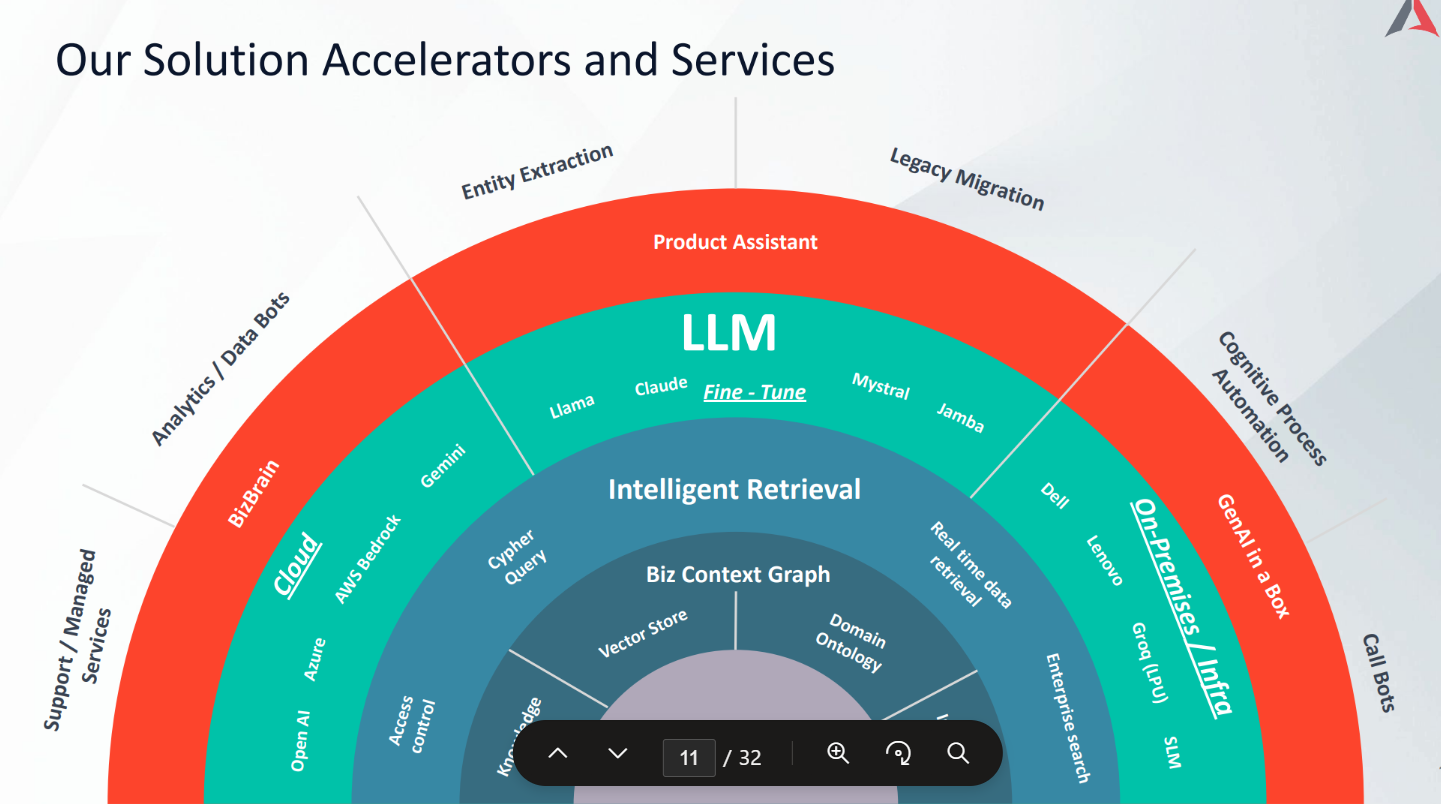
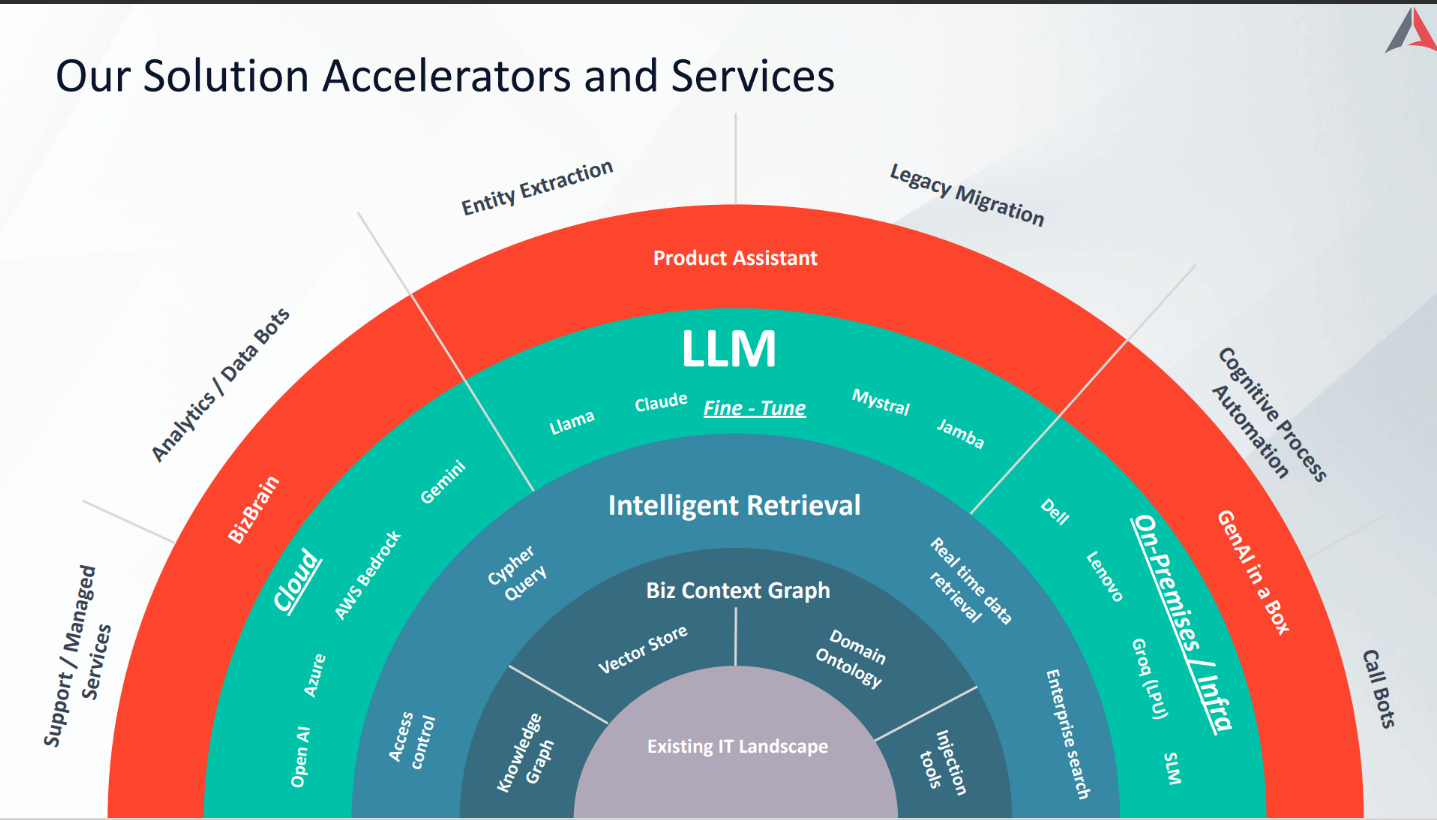
Changes to show videos and images

diff --git a/frontend/src/App.js b/frontend/src/App.js
@@ -9,7 +9,7 @@ const BrightSoftwareHost = () => {
 
   const stopFlagRef = useRef(false);
   const recognitionRef = useRef(null);
-  const isActiveRef = useRef(false);
+  const isActiveRef = useRef(true); 
   const isConversingRef = useRef(false);
   const isAISpeakingRef = useRef(false);
   const mediaActiveRef = useRef(false); 
@@ -17,7 +17,6 @@ const BrightSoftwareHost = () => {
   const videoRef = useRef(null); 
 
   const isMutedBySystemRef = useRef(false);
-  // NEW: Keeps track of the exact millisecond the AI stopped talking
   const lastSpeechEndTimeRef = useRef(0);
 
   const synthRef = window.speechSynthesis || {
@@ -101,7 +100,7 @@ const BrightSoftwareHost = () => {
     stopFlagRef.current = true;
     isAISpeakingRef.current = false;
     isMutedBySystemRef.current = false;
-    lastSpeechEndTimeRef.current = Date.now(); // Mark stop time to enforce cooldown
+    lastSpeechEndTimeRef.current = Date.now();
 
     window.speechSynthesis.cancel();
     
@@ -129,9 +128,14 @@ const BrightSoftwareHost = () => {
     }
   };
 
-  const toggleMediaMic = (isActive) => {
+  const toggleMediaMic = (isActive, videoElement = null) => {
     mediaActiveRef.current = isActive;
     setMediaActive(isActive);
+    
+    if (videoElement) {
+      videoRef.current = videoElement;
+    }
+
     if (isActive) {
       setStatus('VIDEO PLAYING (Listening for STOP)');
       setTimeout(safeStart, 100); 
@@ -141,7 +145,6 @@ const BrightSoftwareHost = () => {
     }
   };
 
-  // SPEECH RECOGNITION WITH ENHANCED TIMESTAMP COOLDOWN FILTER
   useEffect(() => {
     const SpeechRecognition = window.SpeechRecognition || window.webkitSpeechRecognition;
     if (!SpeechRecognition || !isWaked) return;
@@ -161,7 +164,30 @@ const BrightSoftwareHost = () => {
       const lowerFinal = final.toLowerCase().trim();
       const lowerInterim = interim.toLowerCase().trim();
 
-      // 1. Emergency stop commands bypass all filters entirely
+      if (lowerFinal.includes("stop listening") || lowerInterim.includes("stop listening")) {
+        console.log("💤 STANDBY MODE ENGAGED (HISTORY PRESERVED)");
+        
+        stopFlagRef.current = true;
+        isAISpeakingRef.current = false;
+        isMutedBySystemRef.current = false;
+        window.speechSynthesis.cancel();
+        if (videoRef.current) videoRef.current.pause();
+        mediaActiveRef.current = false;
+        setMediaActive(false);
+
+        isConversingRef.current = false;
+        setStatus('STANDBY (Say Namaste)');
+        setInterimText('');
+
+        speak("If you want to wake me up say namaste");
+
+        setTimeout(() => {
+          stopFlagRef.current = false;
+          safeStart();
+        }, 400);
+        return;
+      }
+
       if (
         lowerFinal.includes("stop") || lowerFinal.includes("pause") ||
         lowerInterim.includes("stop") || lowerInterim.includes("pause")
@@ -170,8 +196,6 @@ const BrightSoftwareHost = () => {
         return;
       }
 
-      // 2. HARD COOLDOWN FILTER: If the AI is actively speaking, OR if it has 
-      // stopped speaking less than 800ms ago, drop the text to prevent echo leak.
       const timeSinceSpeechEnded = Date.now() - lastSpeechEndTimeRef.current;
       if (isMutedBySystemRef.current || isAISpeakingRef.current || timeSinceSpeechEnded < 800) {
         return; 
@@ -185,7 +209,7 @@ const BrightSoftwareHost = () => {
       if (mediaActiveRef.current) return; 
 
       if (!isConversingRef.current) {
-        if (lowerFinal.includes("namaste")) {
+        if (lowerFinal.includes("namaste") || lowerInterim.includes("namaste")) {
           isConversingRef.current = true;
           setStatus('LISTENING');
           const welcomeMessage = {
@@ -214,7 +238,6 @@ const BrightSoftwareHost = () => {
     safeStart();
 
     return () => { 
-      isActiveRef.current = false; 
       if (recognitionRef.current) recognitionRef.current.stop(); 
     };
   }, [isWaked]);
@@ -278,7 +301,7 @@ const BrightSoftwareHost = () => {
       if (stopFlagRef.current || index >= chunks.length) {
         isAISpeakingRef.current = false;
         isMutedBySystemRef.current = false;
-        lastSpeechEndTimeRef.current = Date.now(); // Set cooldown marker when all text ends
+        lastSpeechEndTimeRef.current = Date.now();
         if (!stopFlagRef.current && isActiveRef.current) {
           setStatus(isConversingRef.current ? 'LISTENING' : 'STANDBY (Say Namaste)');
         }
@@ -295,7 +318,7 @@ const BrightSoftwareHost = () => {
 
       utterance.onend = () => {
         isMutedBySystemRef.current = false; 
-        lastSpeechEndTimeRef.current = Date.now(); // Update cooldown marker between individual chunks
+        lastSpeechEndTimeRef.current = Date.now();
         
         if (!stopFlagRef.current) {
           index++;
@@ -420,58 +443,78 @@ const BrightSoftwareHost = () => {
               <div style={(msg.images?.length || msg.videos?.length) ? { display: "flex", gap: "18px" } : {}}>
                 <div style={{ flex: 1 }}>{msg.content}</div>
                 <div style={{ width: "260px", display: "flex", flexDirection: "column", gap: "10px" }}>
-                  {msg.images?.map((img, idx) => (
-                    <img key={idx} src={img.url} alt="Insight" style={{ width: "100%", borderRadius: "12px", border: "1px solid rgba(255,255,255,0.1)" }} />
-                  ))}
-                  {msg.videos?.map((vid, idx) => {
-                  let videoUrl = vid.url || vid; // Handles if vid is an object or a direct string
-                  
-                  if (videoUrl && !videoUrl.startsWith('http')) {
-                    // 1. Normalize any backslashes from Windows servers
-                    let cleanPath = videoUrl.replace(/\\/g, '/');
-                    
-                    // 2. If the backend ALREADY included the leading "/media" or "media", strip it out
-                    // so we can build a standardized, clean absolute URL
-                    cleanPath = cleanPath.replace(/^\/?media\//i, '');
+                  {msg.images?.map((img, idx) => {
+                    let imageUrl = img.url || img; 
+                    if (!imageUrl) return null;
 
-                    // 3. Strip out any accidental leftover root folder configurations
-                    cleanPath = cleanPath.replace(/^(knowledge_base\/|knowledgebase\/|knowledge_base-|knowledgebase-)/i, '');
+                    // Unified local asset router bypass logic
+                    const isFrontendAsset = imageUrl.startsWith('assets/') || imageUrl.startsWith('/assets/');
 
-                    // 4. Ensure our dynamic target folder structure is matched correctly
-                    if (cleanPath.startsWith('videos-')) {
-                      cleanPath = cleanPath.replace('videos-', 'videos/');
-                    }
-                    if (!cleanPath.startsWith('videos/')) {
-                      cleanPath = `videos/${cleanPath}`;
+                    if (!imageUrl.startsWith('http') && !isFrontendAsset) {
+                      let cleanImgPath = imageUrl.replace(/\\/g, '/');
+                      cleanImgPath = cleanImgPath.replace(/^\/?media\//i, '');
+                      cleanImgPath = cleanImgPath.replace(/^(knowledge_base\/|knowledgebase\/)/i, '');
+
+                      if (!cleanImgPath.startsWith('images/') && !cleanImgPath.startsWith('assets/')) {
+                        cleanImgPath = `images/${cleanImgPath}`;
+                      }
+
+                      cleanImgPath = cleanImgPath.split('/').map(seg => encodeURIComponent(seg)).join('/');
+                      imageUrl = `http://localhost:8000/media/${cleanImgPath}`;
                     }
 
-                    // 5. CRITICAL: URL Encode spaces and special characters (e.g., "Innovation summit 2026.mp4" -> "Innovation%20summit%202026.mp4")
-                    // We split by '/' so we don't accidentally encode the directory slashes themselves
-                    cleanPath = cleanPath.split('/').map(segment => encodeURIComponent(segment)).join('/');
-
-                    // 6. Build the definitive absolute address
-                    videoUrl = `http://localhost:8000/media/${cleanPath}`;
-                  }
-
-                  console.log("🎬 Sanity Check - Requesting Video From Address:", videoUrl);
-
-                  return (
-                    <div key={idx} style={{ width: '100%', marginBottom: '10px' }}>
-                      <video 
-                        src={videoUrl}
-                        controls 
-                        autoPlay 
-                        playsInline
-                        preload="metadata"
-                        style={{ width: '100%', borderRadius: '10px', backgroundColor: '#000', display: 'block' }} 
-                        onPlay={(e) => toggleMediaMic(true, e.target)} 
-                        onPause={() => toggleMediaMic(false)} 
-                        onEnded={() => toggleMediaMic(false)}
+                    return (
+                      <img 
+                        key={idx} 
+                        src={imageUrl} 
+                        alt="Insight View Asset" 
+                        style={{ 
+                          width: "100%", 
+                          borderRadius: "12px", 
+                          border: "1px solid rgba(255,255,255,0.1)", 
+                          display: "block",
+                          backgroundColor: "rgba(255,255,255,0.02)",
+                          marginBottom: "8px"
+                        }} 
                         onError={(e) => {
-                          console.error("❌ Failed Video Stream Target Location:", videoUrl);
-                          console.error("Browser HTML5 Error Code:", e.target.error?.code);
-                          console.error("Browser HTML5 Error Message:", e.target.error?.message);
+                          console.error("❌ Failed to resolve image resource pipeline at:", imageUrl);
                         }}
+                      />
+                    );
+                  })}
+                  {msg.videos?.map((vid, idx) => {
+                    let videoUrl = vid.url || vid;
+                    if (videoUrl && !videoUrl.startsWith('http')) {
+                      let cleanPath = videoUrl.replace(/\\/g, '/');
+                      cleanPath = cleanPath.replace(/^\/?media\//i, '');
+                      cleanPath = cleanPath.replace(/^(knowledge_base\/|knowledgebase\/|knowledge_base-|knowledgebase-)/i, '');
+
+                      if (cleanPath.startsWith('videos-')) {
+                        cleanPath = cleanPath.replace('videos-', 'videos/');
+                      }
+                      if (!cleanPath.startsWith('videos/')) {
+                        cleanPath = `videos/${cleanPath}`;
+                      }
+
+                      cleanPath = cleanPath.split('/').map(segment => encodeURIComponent(segment)).join('/');
+                      videoUrl = `http://localhost:8000/media/${cleanPath}`;
+                    }
+
+                    return (
+                      <div key={idx} style={{ width: '100%', marginBottom: '10px' }}>
+                        <video 
+                          src={videoUrl}
+                          controls 
+                          autoPlay 
+                          playsInline
+                          preload="metadata"
+                          style={{ width: '100%', borderRadius: '10px', backgroundColor: '#000', display: 'block' }} 
+                          onPlay={(e) => toggleMediaMic(true, e.target)} 
+                          onPause={() => toggleMediaMic(false)} 
+                          onEnded={() => toggleMediaMic(false)}
+                          onError={(e) => {
+                            console.error("❌ Failed Video Stream Target Location:", videoUrl);
+                          }}
                         />
                       </div>
                     );